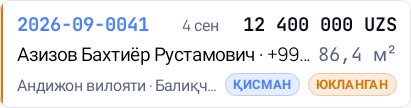
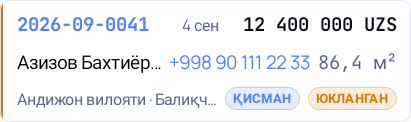
Feat(android) · dial a client straight from the order card
The number is now its own tap target: link-coloured, and it opens the dialer
with ACTION_DIAL rather than placing the call, so no CALL_PHONE permission is
needed. It is nested inside the card's own click and consumes the tap, so the
phone dials and the rest of the card still opens the order.

Name and phone were one string, so a long client name truncated the number.
The name now yields and the phone is sized to its content — a half-shown number
is a number you cannot trust before dialling it.

The tap target is 12.dp of padding around a 20.dp line, about 44.dp, which is
what carries the card from 94.dp to 118.dp: one fewer row per screen. These are
gloved warehouse hands, so the target is worth the density.

Guarded with runCatching: a device with no dialer would otherwise throw
ActivityNotFoundException out of the tap handler.

diff --git a/android/feature/orders/src/main/kotlin/uz/etalon/crm/feature/orders/list/OrderCard.kt b/android/feature/orders/src/main/kotlin/uz/etalon/crm/feature/orders/list/OrderCard.kt
@@ -1,11 +1,18 @@
 package uz.etalon.crm.feature.orders.list
 
+import android.content.Context
+import android.content.Intent
+import android.net.Uri
+import androidx.compose.foundation.clickable
 import androidx.compose.foundation.layout.*
 import androidx.compose.material3.MaterialTheme
 import androidx.compose.material3.Text
 import androidx.compose.runtime.Composable
 import androidx.compose.ui.Alignment
 import androidx.compose.ui.Modifier
+import androidx.compose.ui.platform.LocalContext
+import androidx.compose.ui.res.stringResource
+import androidx.compose.ui.semantics.Role
 import androidx.compose.ui.text.font.FontWeight
 import androidx.compose.ui.text.style.TextOverflow
 import androidx.compose.ui.unit.dp
@@ -15,7 +22,17 @@ import uz.etalon.crm.core.model.OrderSummary
 import uz.etalon.crm.core.ui.format.formatAddressLine
 import uz.etalon.crm.core.ui.format.formatPhone
 import uz.etalon.crm.core.ui.format.formatScheduleDate
+import uz.etalon.crm.feature.orders.R
 import java.time.Instant
+
+/**
+ * Opens the dialer with the number filled in — never places the call itself, which
+ * would need CALL_PHONE. A device with no dialer at all (an emulator image, a tablet)
+ * would otherwise throw ActivityNotFoundException straight out of the tap handler.
+ */
+private fun dial(ctx: Context, phone: String) {
+    runCatching { ctx.startActivity(Intent(Intent.ACTION_DIAL, Uri.parse("tel:+$phone"))) }
+}
 
 /**
  * The scheduled date sits on the order-number row rather than beside the address,
@@ -28,6 +45,8 @@ import java.time.Instant
  */
 @Composable
 fun OrderCard(o: OrderSummary, now: Instant = Instant.now(), onClick: () -> Unit) {
+    val ctx = LocalContext.current
+    val callLabel = stringResource(R.string.action_call)
     StatusStripeCard(stripe = toneColor(orderStatusTone(o.status)), onClick = onClick) {
         Row(Modifier.fillMaxWidth(), verticalAlignment = Alignment.CenterVertically, horizontalArrangement = Arrangement.spacedBy(8.dp)) {
             Text(o.orderNumber, style = EtalonType.monoBody.copy(fontWeight = FontWeight.Bold), color = MaterialTheme.colorScheme.primary)
@@ -38,12 +57,24 @@ fun OrderCard(o: OrderSummary, now: Instant = Instant.now(), onClick: () -> Unit
             Text(formatScheduleDate(o.scheduledAt, now), style = MaterialTheme.typography.bodySmall, color = MaterialTheme.colorScheme.onSurfaceVariant, modifier = Modifier.weight(0.75f), maxLines = 1, overflow = TextOverflow.Ellipsis)
             MoneyText(o.totalPrice, style = EtalonType.monoBody.copy(fontWeight = FontWeight.Bold))
         }
-        Spacer(Modifier.height(4.dp))
         Row(Modifier.fillMaxWidth(), verticalAlignment = Alignment.CenterVertically) {
-            Text("${o.client.name} · ${formatPhone(o.client.phone)}", style = MaterialTheme.typography.bodyMedium, modifier = Modifier.weight(1f), maxLines = 1, overflow = TextOverflow.Ellipsis)
+            // The name yields and the phone does not: the phone is a tap target, and a
+            // half-shown number is a number you cannot trust before dialling it.
+            Text(o.client.name, style = MaterialTheme.typography.bodyMedium, modifier = Modifier.weight(1f), maxLines = 1, overflow = TextOverflow.Ellipsis)
+            Text(
+                formatPhone(o.client.phone),
+                style = MaterialTheme.typography.bodyMedium,
+                color = MaterialTheme.colorScheme.primary,
+                maxLines = 1,
+                modifier = Modifier
+                    // Nested inside the card's own click: this consumes the tap, so the
+                    // phone dials and does not also open the order. The padding is the
+                    // touch target — 12.dp of it carries a 20.dp line to ~44.dp.
+                    .clickable(onClickLabel = callLabel, role = Role.Button) { dial(ctx, o.client.phone) }
+                    .padding(horizontal = 8.dp, vertical = 12.dp),
+            )
             AreaText(o.totalArea)
         }
-        Spacer(Modifier.height(6.dp))
         Row(Modifier.fillMaxWidth(), verticalAlignment = Alignment.CenterVertically, horizontalArrangement = Arrangement.spacedBy(8.dp)) {
             Text(formatAddressLine(o.client.address).orEmpty(), style = MaterialTheme.typography.bodySmall, color = MaterialTheme.colorScheme.onSurfaceVariant, modifier = Modifier.weight(1f), maxLines = 1, overflow = TextOverflow.Ellipsis)
             PaymentChip(o.paymentState)
